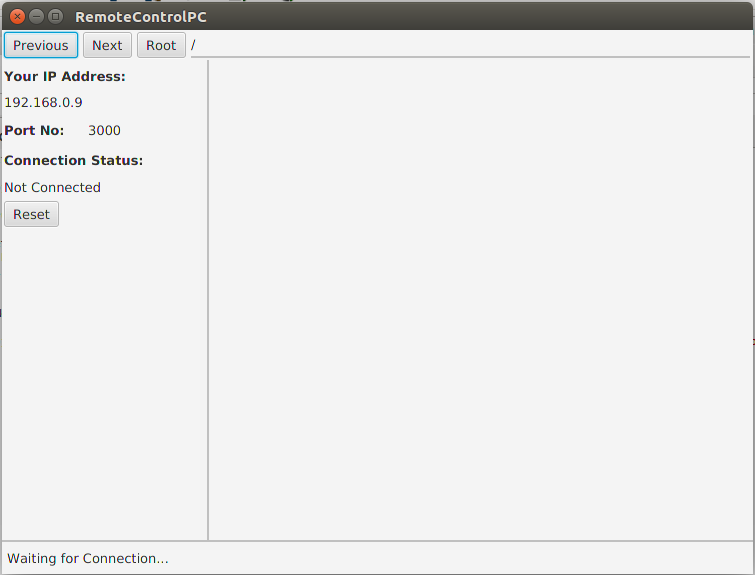
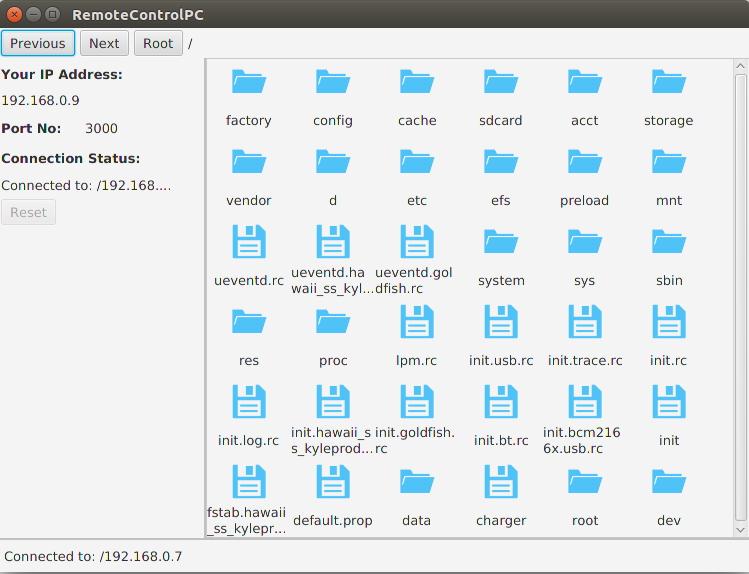
browse android files on PC added

diff --git a/RemoteControlPC-JavaFXML/dist/RemoteControlPC.html b/RemoteControlPC-JavaFXML/dist/RemoteControlPC.html
@@ -4,7 +4,7 @@
     function launchApplication(jnlpfile) {
         dtjava.launch(            {
                 url : 'RemoteControlPC.jnlp',
[2 lines of base64/hex data omitted]
             },
             {
                 javafx : '8.0+'
@@ -24,7 +24,7 @@
                 placeholder : 'javafx-app-placeholder',
                 width : '800',
                 height : '600',
[2 lines of base64/hex data omitted]
             },
             {
                 javafx : '8.0+'

diff --git a/RemoteControlPC-JavaFXML/src/remotecontrolpc/MainScreenController.java b/RemoteControlPC-JavaFXML/src/remotecontrolpc/MainScreenController.java
@@ -23,13 +23,16 @@ import javafx.concurrent.Service;
 import javafx.concurrent.Task;
 import javafx.event.ActionEvent;
 import javafx.fxml.FXML;
+import javafx.fxml.FXMLLoader;
 import javafx.fxml.Initializable;
+import javafx.scene.Parent;
 import javafx.scene.control.Button;
 import javafx.scene.control.Label;
 import javafx.scene.image.Image;
 import javafx.scene.image.ImageView;
 import javafx.scene.layout.BorderPane;
-import javafx.scene.layout.FlowPane;
+import javafx.scene.layout.TilePane;
+import layout.FileOrFolderController;
 
 /**
  *
@@ -46,7 +49,7 @@ public class MainScreenController implements Initializable {
     public static ObjectInputStream objectInputStream = null;
     
     @FXML
-    private FlowPane flowPane;
+    private TilePane tilePane;
     @FXML
     private BorderPane borderPane;
     @FXML
@@ -158,31 +161,71 @@ public class MainScreenController implements Initializable {
         ImageView imageView = new ImageView(image);
         imageView.setPreserveRatio(true);
         Platform.runLater(() -> {
-            imageView.fitWidthProperty().bind(flowPane.widthProperty());
-            imageView.fitHeightProperty().bind(flowPane.heightProperty());
-            flowPane.getChildren().clear();
-            flowPane.getChildren().add(imageView);
+            imageView.fitWidthProperty().bind(tilePane.widthProperty());
+            imageView.fitHeightProperty().bind(tilePane.heightProperty());
+            tilePane.getChildren().clear();
+            tilePane.getChildren().add(imageView);
         });
     }
     
     public void closeImageViewer() {
         Platform.runLater(() -> {
-            flowPane.getChildren().clear();
+            tilePane.getChildren().clear();
         });
     }
     
     public void showFiles(ArrayList<AvatarFile> filesInFolder) {
         Platform.runLater(() -> {
-            flowPane.getChildren().clear();
+            tilePane.getChildren().clear();
             for (AvatarFile file : filesInFolder) {
-                Image image = new Image(
-                        getClass().getResourceAsStream("/resources/folder.png")
+                FXMLLoader fxmlLoader = new FXMLLoader(
+                        getClass().getResource("/layout/FileOrFolder.fxml")
                 );
-                ImageView imageView = new ImageView(image);
-                imageView.setPreserveRatio(true);
-                flowPane.getChildren().add(imageView);
-                //System.out.println(file.getHeading() + ":" + file.getSubheading());
+                Parent root;
+                try {
+                    root = (Parent) fxmlLoader.load();
+                } catch(Exception e) {
+                    e.printStackTrace();
+                    return;
+                }
+                FileOrFolderController fileOrFolderController = 
+                        (FileOrFolderController) fxmlLoader.getController();
+                String fileType = file.getType();
+                Image icon = null;
+                switch(fileType) {
+                    case "folder":
+                        icon = new Image(
+                                getClass().getResourceAsStream("/resources/folder.png")
+                        );
+                        break;
+                    case "file":
+                        icon = new Image(
+                                getClass().getResourceAsStream("/resources/file.png")
+                        );
+                        break;
+                    case "image":
+                        icon = new Image(
+                                getClass().getResourceAsStream("/resources/image.png")
+                        );
+                        break;
+                    case "mp3":
+                        icon = new Image(
+                                getClass().getResourceAsStream("/resources/music.png")
+                        );
+                        break;
+                    case "pdf":
+                        icon = new Image(
+                                getClass().getResourceAsStream("/resources/pdf.png")
+                        );
+                        break;
+                    default: ;
+                }
+                fileOrFolderController.setIcon(icon);
+                fileOrFolderController.setHeading(file.getHeading());
+                fileOrFolderController.setSubHeading(file.getSubheading());
+                tilePane.getChildren().add(root);
             }
         });
     }
+    
 }

diff --git a/RemoteControlPC-JavaFXML/src/layout/FileOrFolderController.java b/RemoteControlPC-JavaFXML/src/layout/FileOrFolderController.java
@@ -1,0 +1,68 @@
+package layout;
+
+import java.net.URL;
+import java.util.ResourceBundle;
+import javafx.fxml.FXML;
+import javafx.fxml.Initializable;
+import javafx.scene.control.Label;
+import javafx.scene.image.Image;
+import javafx.scene.image.ImageView;
+import javafx.scene.input.MouseEvent;
+import javafx.scene.layout.VBox;
+import static remotecontrolpc.MainScreenController.mainScreenController;
+
+/**
+ * FXML Controller class
+ *
+ * @author varun
+ */
+public class FileOrFolderController implements Initializable {
+    
+    @FXML
+    ImageView iconImageView;
+    @FXML
+    Label headingLabel;
+    @FXML
+    VBox vBox;
+    
+    private Image icon;
+    private String heading;
+    private String subHeading;
+    
+    @FXML
+    private void showDetails(MouseEvent event) {
+        mainScreenController.showMessage(getSubHeading());
+    }
+
+    public Image getIcon() {
+        return icon;
+    }
+
+    public void setIcon(Image icon) {
+        this.icon = icon;
+        iconImageView.setImage(icon);
+    }
+
+    public String getHeading() {
+        return heading;
+    }
+
+    public void setHeading(String heading) {
+        this.heading = heading;
+        headingLabel.setText(heading);
+    }
+
+    public String getSubHeading() {
+        return subHeading;
+    }
+
+    public void setSubHeading(String subHeading) {
+        this.subHeading = subHeading;
+    }
+
+    @Override
+    public void initialize(URL url, ResourceBundle rb) {
+        // TODO
+    }    
+    
+}

diff --git a/RemoteControlPC-Studio/app/src/main/java/com/example/remotecontrolpc/server/Server.java b/RemoteControlPC-Studio/app/src/main/java/com/example/remotecontrolpc/server/Server.java
@@ -71,8 +71,6 @@ public class Server {
                 switch (message) {
                     case "FILE_DOWNLOAD_LIST_FILES":
                         filePath = (String) objectInputStream.readObject();
-                        if (filePath.equals("/")) {
-                        }
                         new FilesList() {
 
                             @Override
@@ -81,6 +79,10 @@ public class Server {
                                 sendFilesList.sendFilesList(filesInFolder, objectOutputStream);
                             }
                         }.execute(filePath);
+                        break;
+                    case "FILE_DOWNLOAD":
+                        filePath = (String) objectInputStream.readObject();
+                        //todo
                         break;
                     default: ;
                 }
